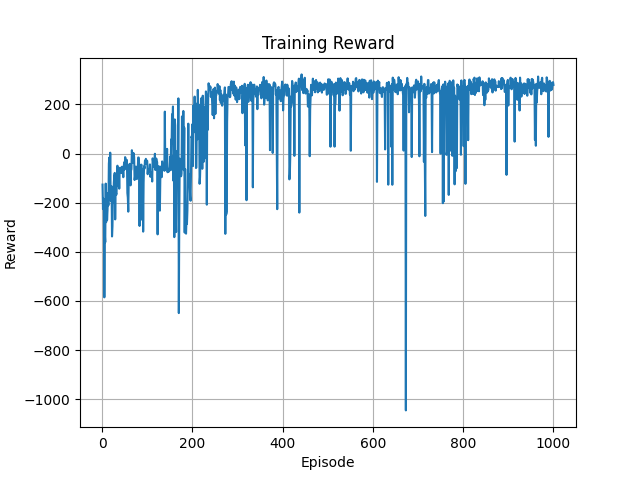
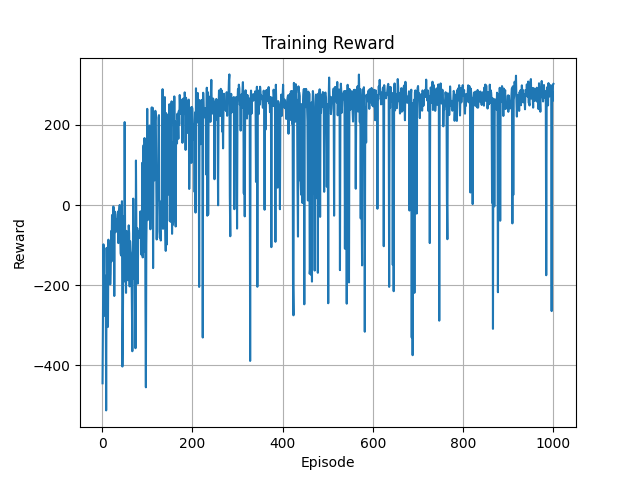
updated success plot

diff --git a/utils/train_logger.py b/utils/train_logger.py
@@ -22,6 +22,7 @@ class TrainLogger:
         # plot rewards per episode
         episodes = list(range(1, len(self.rewards) + 1))
 
+        # reward plot
         plt.plot(episodes, self.rewards, label="Reward")
         plt.title("Training Reward")
         plt.xlabel("Episode")
@@ -30,7 +31,16 @@ class TrainLogger:
         plt.savefig(f"{self.log_dir}/{label}_reward_plot.png")
         plt.close()
 
-        # plot smoothes success rate 
+        # return plot
+        plt.plot(episodes, self.rewards, label="Return", color="orange")
+        plt.title("Episodic Return")
+        plt.xlabel("Episode")
+        plt.ylabel("Return")
+        plt.grid(True)
+        plt.savefig(f"{self.log_dir}/{label}_return_plot.png")
+        plt.close()
+
+        # plot success rate (moving average)
         window = 50
         success_rate = np.convolve(self.success_flags, np.ones(window)/window, mode="valid")
         plt.plot(range(window, len(self.success_flags) + 1), success_rate, label="Success Rate")

diff --git a/main.py b/main.py
@@ -51,9 +51,12 @@ def train(
 
             if done:
                 # check if episode is considered successful
-                success = (info.get("success", False) or reward >= 200)
+                #success = (info.get("success", False) or reward >= 200)
+                success = reward >= 100 and done
+                #print(f"Episode {episode + 1}: Total Reward = {total_reward:.2f}, Success = {success}")
+
                 break
-                
+
         # log rewards and success info for the episode
         logger.log_episode(total_reward, success)
 
